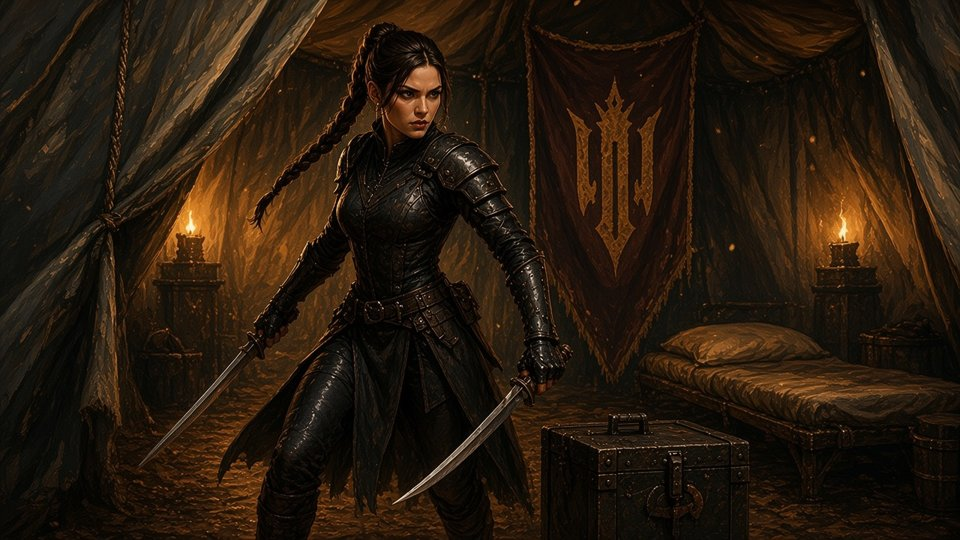
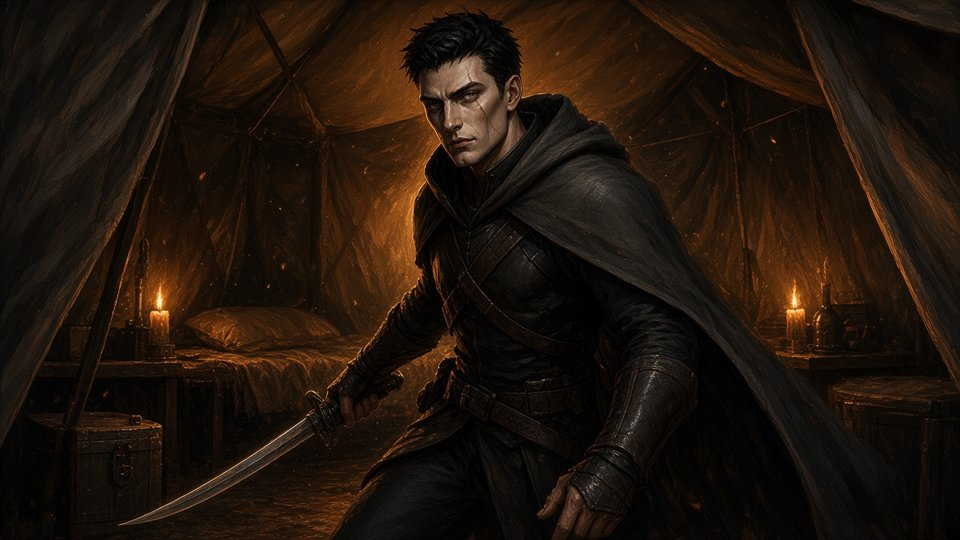
v216: Retriever art rebuilt from portrait cards (Vex, Ash, capture, Wren wagon + deal)

diff --git a/src/game/art.ts b/src/game/art.ts
@@ -153,6 +153,8 @@ export type CoverKey =
   | 'ch3_vault_fight'
   | 'ch3_vex_fight'
   | 'ch3_ash_fight'
+  | 'ch3_wagon_wren'
+  | 'ch3_wren_deal'
   | 'v205_subdrain'
   | 'v205_oasis'
   | 'p2_rubble'
@@ -322,6 +324,8 @@ const FILES: Record<CoverKey, string> = {
   ch3_vault_fight: 'ch3-vault-fight.jpg',
   ch3_vex_fight: 'ch3-vex-fight.jpg',
   ch3_ash_fight: 'ch3-ash-fight.jpg',
+  ch3_wagon_wren: 'ch3-wagon-wren.jpg',
+  ch3_wren_deal: 'ch3-wren-deal.jpg',
   v205_subdrain: 'sub-drain.jpg',
   v205_oasis: 'oasis-reserve.jpg',
   p2_rubble: 'p2-rubble.jpg',
@@ -526,7 +530,7 @@ export const COVER_BAND: Record<CoverKey, [number, number]> = {
   p1_conduits: [0.08, 0.72],
   p1_parade: [0.08, 0.72],
   v205_breach: [0.08, 0.72],
-  ch3_capture: [0.1, 0.8],
+  ch3_capture: [0.15, 0.9],
   ch3_wagon: [0.1, 0.8],
   ch3_supply: [0.1, 0.8],
   ch3_tent: [0.1, 0.8],
@@ -534,6 +538,8 @@ export const COVER_BAND: Record<CoverKey, [number, number]> = {
   ch3_vault_fight: [0.1, 0.8],
   ch3_vex_fight: [0.05, 0.85],
   ch3_ash_fight: [0.05, 0.85],
+  ch3_wagon_wren: [0.05, 0.75],
+  ch3_wren_deal: [0.05, 0.85],
   v205_subdrain: [0.08, 0.72],
   v205_oasis: [0.08, 0.72],
   p2_rubble: [0.08, 0.72],
@@ -736,6 +742,9 @@ export function playCoverKey(state: GameState, scene: Pick<Scene, 'id' | 'art' |
   if (NEW_PLACE_ART[id]) return NEW_PLACE_ART[id]
   // v206 DRAFT: Chapter Three covers.
   const CH3_ART: Record<string, CoverKey> = { 'ch3:capture': 'ch3_capture', 'ch3:wagon': 'ch3_wagon', 'ch3:supply': 'ch3_supply', 'ch3:tent': 'ch3_tent', 'ch3:crosshaven': 'ch3_crosshaven' }
+  // v216: Wren's own art (from her portrait card) when she is the helper.
+  if (id === 'ch3:wagon' && state.flags.ch3Helper === 'wren') return 'ch3_wagon_wren'
+  if (id === 'ch3:tent' && state.flags.wrenPromise) return 'ch3_wren_deal'
   if (CH3_ART[id]) return CH3_ART[id]
   const CH2_ART: Record<string, CoverKey> = {'ch2:greg-toll': 'greg', 'ch2:gate': 'ch2_s_gate', 'ch2:cache': 'ch2_s_cache', 'ch2:trapped': 'ch2_s_trapped', 'ch2:heart': 'ch2_s_heart', 'ch2:end': 'ch2_s_end', 'ch2:o-abyss': 'ch2_o_abyss', 'ch2:o-bounty': 'ch2_o_bounty', 'ch2:o-cage': 'ch2_o_cage', 'ch2:o-hounds': 'ch2_o_hounds', 'ch2:o-hermit': 'ch2_o_hermit', 'ch2:o-root': 'ch2_o_root', 'ch2:o-stakes': 'ch2_o_stakes', 'ch2:o-stilts': 'ch2_o_stilts', 'ch2:o-strays': 'ch2_o_strays', 'ch2:o-wash': 'ch2_o_wash', 'ch2:p-abyss': 'ch2_p_abyss', 'ch2:p-bays': 'ch2_p_bays', 'ch2:p-bilge': 'ch2_p_bilge', 'ch2:p-haul': 'ch2_p_haul', 'ch2:p-jaws': 'ch2_p_jaws', 'ch2:p-shaft': 'ch2_p_shaft', 'ch2:p-sift': 'ch2_p_sift', 'ch2:v-bleed': 'ch2_v_bleed', 'ch2:v-blown': 'ch2_v_blown', 'ch2:v-garden': 'ch2_v_garden', 'ch2:v-greg': 'ch2_v_greg', 'ch2:v-murch': 'ch2_v_murch', 'ch2:v-outpost': 'ch2_v_outpost', 'ch2:v-ribs': 'ch2_v_ribs', 'ch2:v-scar': 'ch2_v_scar', 'ch2:v-stair': 'ch2_v_stair', 'ch2:v-test': 'ch2_v_test', 'ch2:p-supply': 'ch2_s_p_supply', 'ch2:p-drillrun': 'ch2_s_p_drillrun', 'ch2:survivor': 'ch2_s_survivor', 'ch2:approach': 'ch2_s_approach', 'ch2:ditch': 'ch2_s_ditch', 'ch2:gully': 'ch2_s_gully', 'ch2:irongut': 'ch2_s_irongut', 'ch2:ribs': 'ch2_s_ribs', 'ch2:vein': 'ch2_s_vein'}
   // v179: Valerius has moved on; the test chamber shows the outpost, not him.

diff --git a/scripts/v216.ts b/scripts/v216.ts
@@ -30,5 +30,8 @@ for (let i = 0; i < 80 && g.flags.encounterHere; i++) {
 }
 ok(g.heat.seekers === h + 2 && g.flash?.includes('Seeker Heat +2.'), `win heat +2 (${h}->${g.heat.seekers})`)
 ok(readFileSync('src/version.ts', 'utf8').includes("'v216'") && readFileSync('public/sw.js', 'utf8').includes('covers/ch3-ash-fight.jpg'), 'build')
+ok(coverFor({ ...base, sceneId: 'ch3:wagon', flags: { ch3Helper: 'wren' } } as GameState) === 'ch3_wagon_wren' && coverFor({ ...base, sceneId: 'ch3:wagon', flags: { ch3Helper: 'corvus' } } as GameState) === 'ch3_wagon', 'wren wagon art')
+ok(coverFor({ ...base, sceneId: 'ch3:tent', flags: { wrenPromise: true } } as GameState) === 'ch3_wren_deal', 'wren deal art')
+ok(readFileSync('public/sw.js', 'utf8').includes('covers/ch3-wren-deal.jpg'), 'wren art precached')
 console.log(fails ? `v216: ${fails} FAIL` : 'v216: all pass')
 process.exit(fails ? 1 : 0)

diff --git a/public/sw.js b/public/sw.js
@@ -20,6 +20,8 @@ self.addEventListener('install', (event) => {
         `${SCOPE}covers/ch3-tent.jpg`,
         `${SCOPE}covers/ch3-vex-fight.jpg`,
         `${SCOPE}covers/ch3-ash-fight.jpg`,
+        `${SCOPE}covers/ch3-wagon-wren.jpg`,
+        `${SCOPE}covers/ch3-wren-deal.jpg`,
         `${SCOPE}covers/ch3-crosshaven.jpg`,
         `${SCOPE}covers/ch2-p-supply.jpg`,
         `${SCOPE}covers/ch2-p-drillrun.jpg`,
